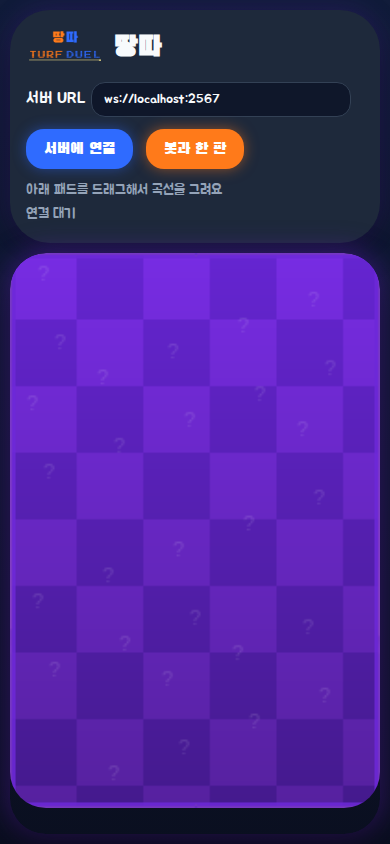
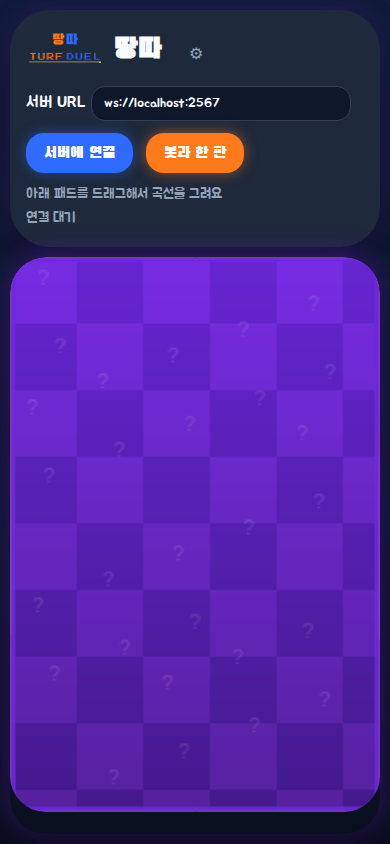
docs(qa): recapture 390x844 match, cut popup, and hit flash
qa=hit parks a Sparx on the rim so the edge flash and broken heart
land in the screenshot. Match and 싹둑/+6% frames are refreshed.

diff --git a/packages/client/src/main.ts b/packages/client/src/main.ts
@@ -380,6 +380,16 @@ class GameScene extends Phaser.Scene {
     this.matchState = createInitialState(
       this.qaHit ? { matchTicks: 400 } : this.qaMode ? { matchTicks: 80 } : undefined,
     );
+    if (this.qaHit) {
+      const x = this.matchState.player1.position.x;
+      const y = this.matchState.gridHeight - 1;
+      this.matchState.player1.xFp = (x << 8) + 128;
+      this.matchState.player1.yFp = (y << 8) + 128;
+      this.matchState.player1.position = { x, y };
+      this.matchState.sparx2.xFp = ((x - 3) << 8) + 128;
+      this.matchState.sparx2.yFp = (y << 8) + 128;
+      this.matchState.sparx2.edgeDir = 0;
+    }
     this.bot = new Bot('normal', 2, 11);
     this.setActorsVisible(true);
     setPlaying(true);
@@ -393,7 +403,7 @@ class GameScene extends Phaser.Scene {
       const heading = this.qaHeading();
       const botMove = this.bot!.getNextMove(this.matchState);
       const prevTrail = this.matchState.player1.trail.slice();
-      const autoThrust = this.qaMode && (this.qaHit || !this.qaClaimed);
+      const autoThrust = this.qaHit || (this.qaMode && !this.qaClaimed);
       const result = step(this.matchState, [
         { player: 1, heading, thrusting: autoThrust ? true : this.thrusting },
         botMove,
